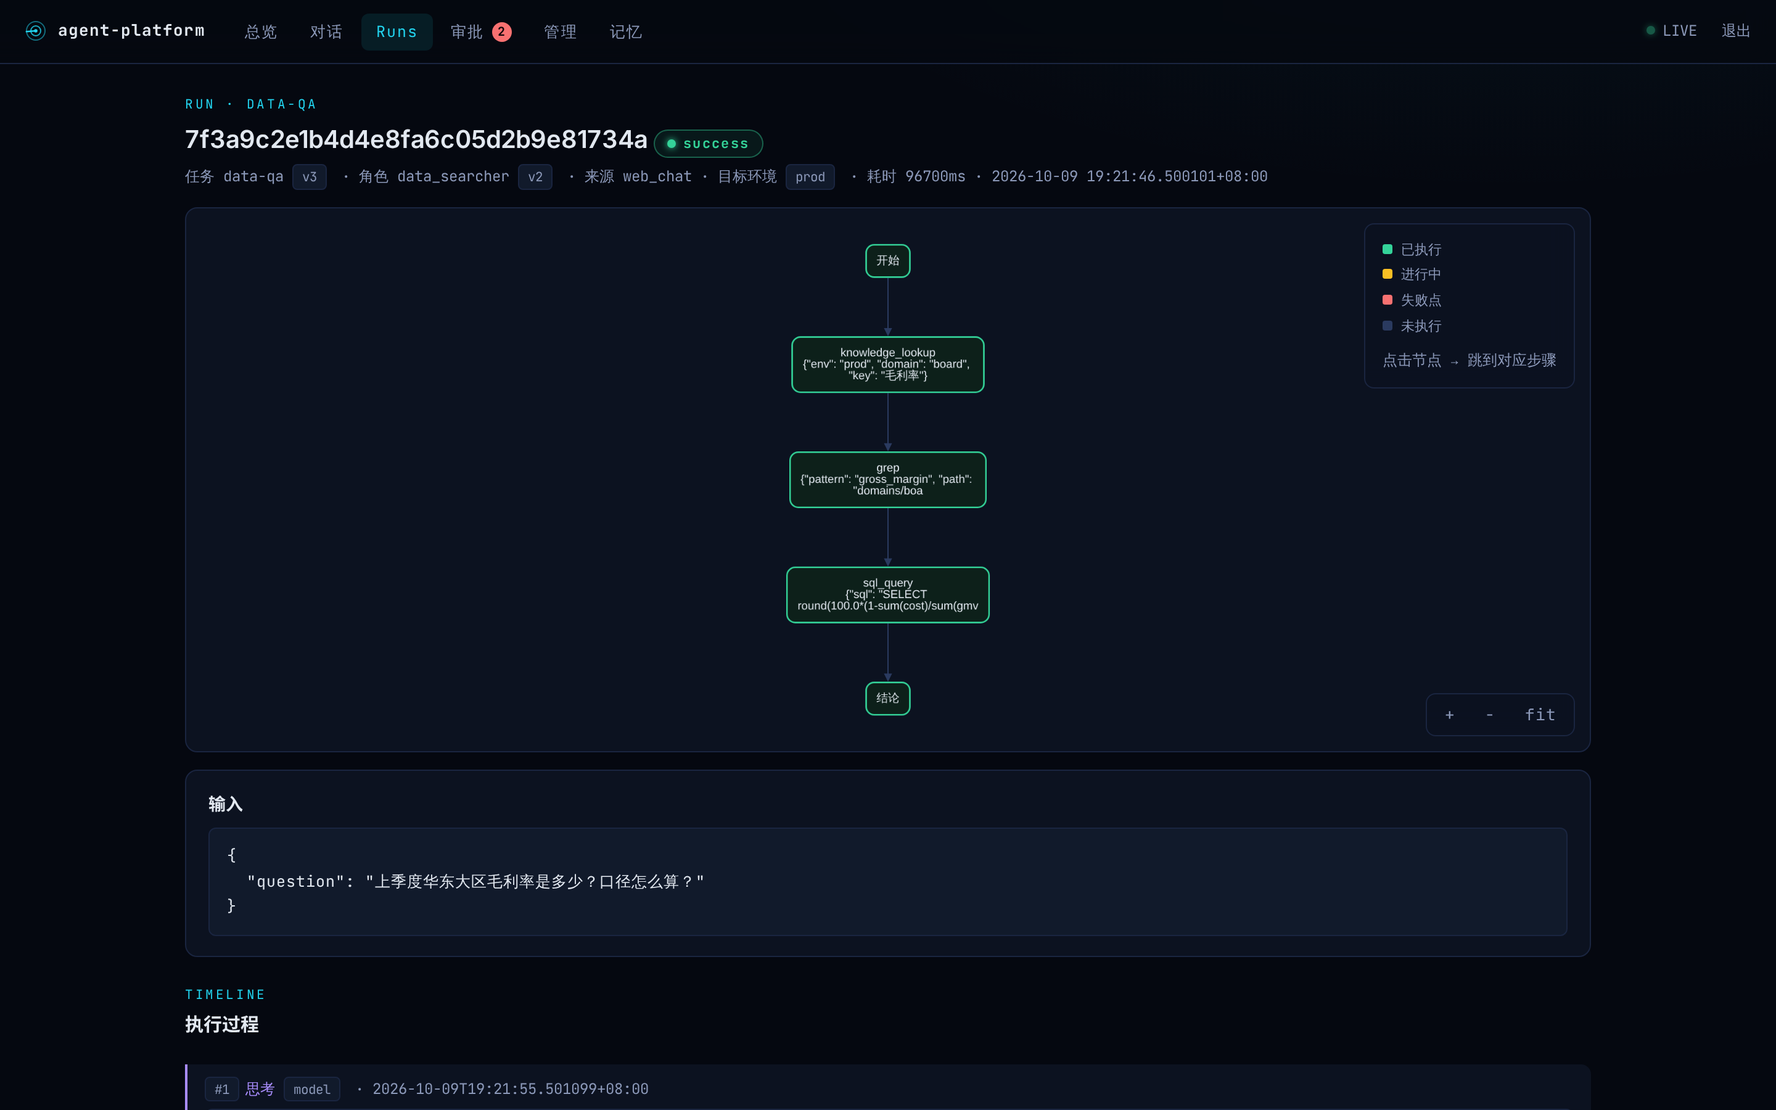
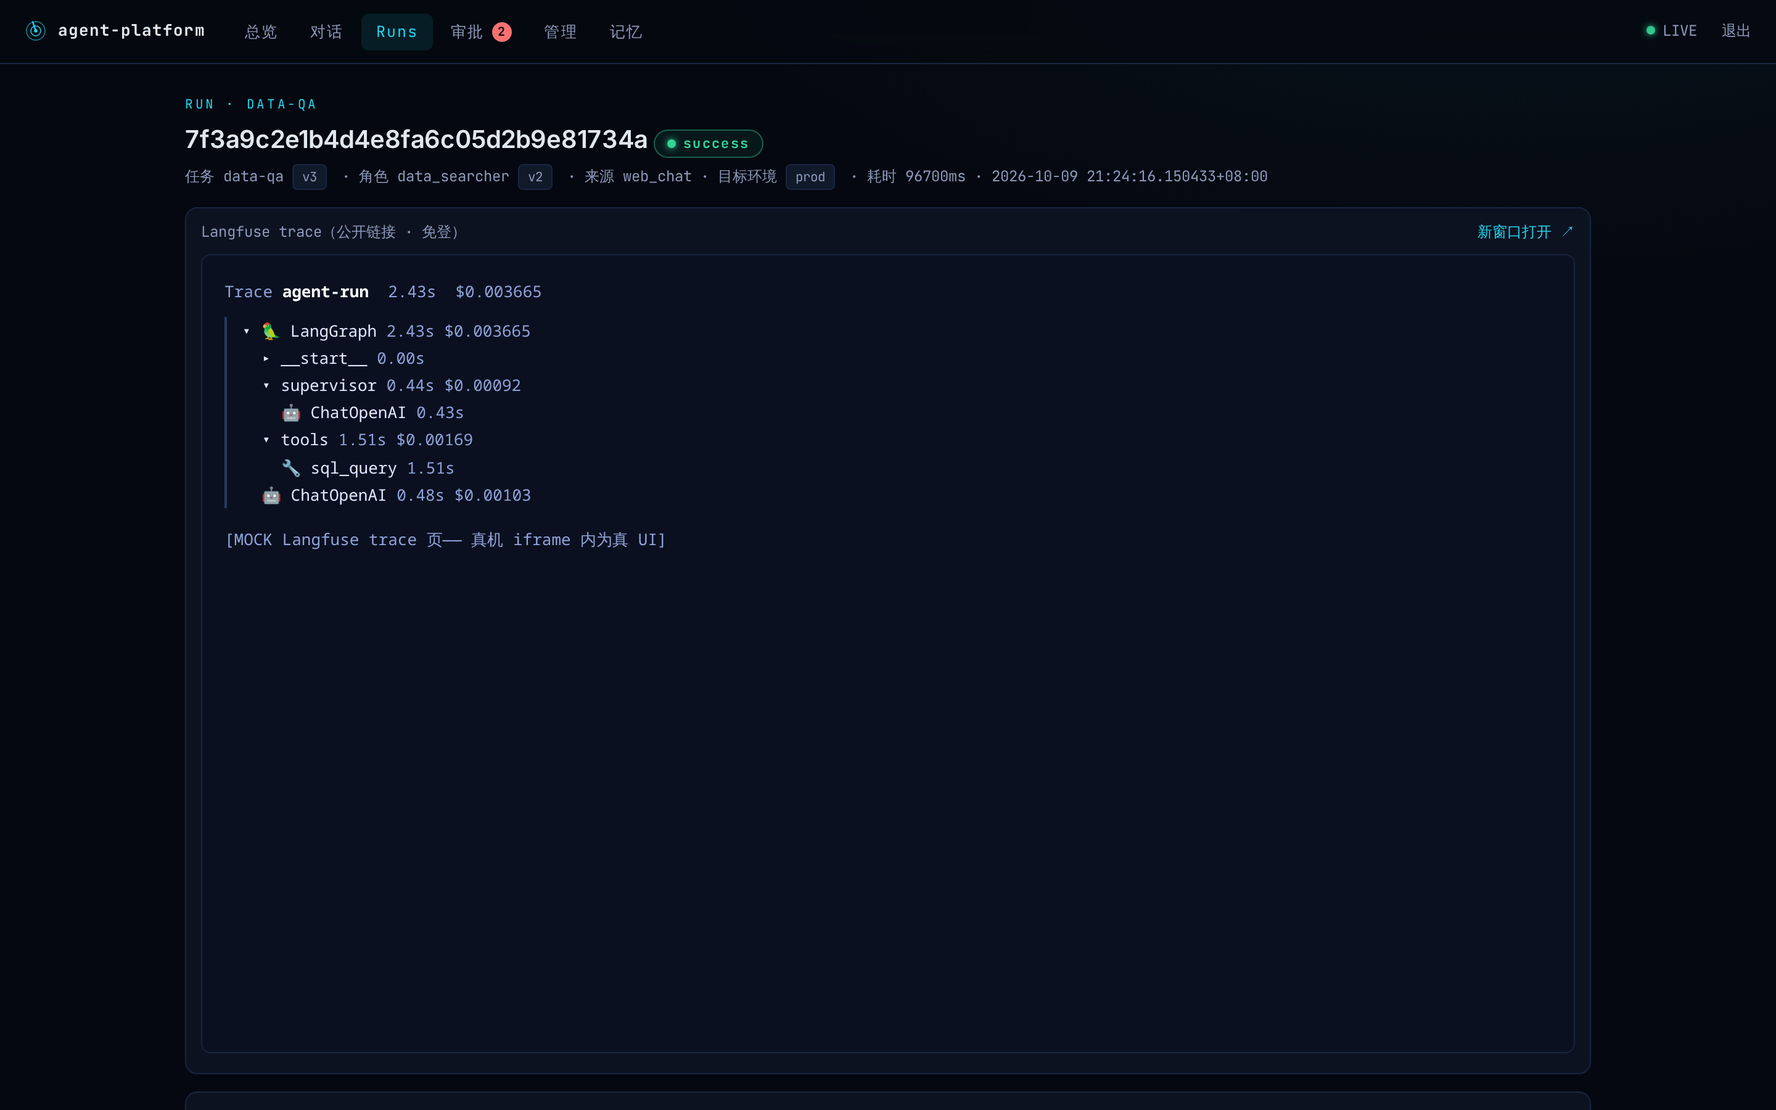
v4.10.0 run 详情页整页内嵌 Langfuse trace 页——深层观测用官方 UI，不再自研
打开详情页时：ingestion trace-create {id, public:true} 把 trace 设为公开
链接（幂等、进程内去重，与 UI 分享按钮同一通路）→ GET trace 页探测
X-Frame-Options/CSP frame-ancestors → 无限制头则 iframe 内嵌（免登），
自研轨迹图/时间线不再渲染；未剥头/未启用/embed=false 降级为外链+自研图。
自托管默认 SAMEORIGIN，需在 Langfuse 反向代理 proxy_hide_header 剥掉
（页面内嵌提示里直接给出配置，探测不缓存，剥好即自动生效）。
未决审批改页顶 ⏸ 横幅（不再依赖图节点）。langfuse.embed 配置可关。
+2 单测（publish 幂等/失败重试、frame_check 三态），116 tests OK。

diff --git a/src/agent_platform/viewer/static/graph.js b/src/agent_platform/viewer/static/graph.js
@@ -185,7 +185,8 @@ function renderRunHead(s) {
 }
 
 /* —— Run 详情页：轮询 state.json，局部刷新图与步骤 —— */
-async function watchRun(runId) {
+/* embedded=true：页面已内嵌 Langfuse trace，自研轨迹图/时间线不再渲染 */
+async function watchRun(runId, embedded) {
   const graphEl = document.getElementById("graph");
   while (true) {
     let s;
@@ -196,7 +197,7 @@ async function watchRun(runId) {
       continue;
     }
     renderRunHead(s);
-    if (s.graph && s.graph.nodes && s.graph.nodes.length) {
+    if (!embedded && s.graph && s.graph.nodes && s.graph.nodes.length) {
       document.getElementById("graph-card").style.display = "";
       // 状态来源三种：轨迹图直给三态 / 资产图 artifacts 表映射 / 骨架图事件推导
       const statuses = s.graph.trace
@@ -208,7 +209,7 @@ async function watchRun(runId) {
           : nodeStatusOf(s.events, s.run.status);
       renderInto(graphEl, s.graph, statuses);
     }
-    renderSteps(document.getElementById("steps"), s.events);
+    if (!embedded) renderSteps(document.getElementById("steps"), s.events);
     document.getElementById("output").textContent = JSON.stringify(s.run.output);
     if (s.run.status !== "queued" && s.run.status !== "running") break;
     await new Promise(r => setTimeout(r, 2000));

diff --git a/src/agent_platform/viewer/static/app.css b/src/agent_platform/viewer/static/app.css
@@ -258,6 +258,17 @@ button.ok:hover { background: rgba(52, 211, 153, 0.18); }
 .graph-legend .sw { display: inline-block; width: 8px; height: 8px; border-radius: 2px;
                     margin-right: 7px; vertical-align: 0; }
 .graph-tools { bottom: 12px; right: 12px; display: flex; gap: 4px; padding: 4px; }
+
+/* —— Langfuse trace 内嵌（详情页深层观测直接用官方 UI） —— */
+.trace-embed { padding: 10px 12px; }
+.trace-embed .trace-frame {
+  width: 100%; height: 72vh; min-height: 480px; margin-top: 8px;
+  border: 1px solid var(--border); border-radius: 8px; background: #0b1020;
+}
+.pending-banner {
+  border-color: #fbbf24; background: rgba(251, 191, 36, 0.08);
+  font-family: var(--mono); font-size: 13px;
+}
 .graph-tools button {
   margin: 0; padding: 4px 10px; font-size: 13px; border: none; background: transparent;
   color: var(--text-dim); border-radius: 5px; box-shadow: none;

diff --git a/src/agent_platform/viewer/pages/runs.py b/src/agent_platform/viewer/pages/runs.py
@@ -91,20 +91,58 @@ def make_router(env: str, engine=None, langfuse=None,
         run = await runs.get(run_id)
         if run is None:
             raise HTTPException(404, "run 不存在")
-        trace_link = ""
+        # Langfuse trace 区：embed 开启时把官方 trace 页整页内嵌（先自动设为
+        # 公开链接免登，再探测网关是否放行 iframe）；任一条件不满足降级外链。
+        # 内嵌成功后自研轨迹图/时间线不再渲染——深层观测不重复造。
+        trace_section, embedded = "", False
         if langfuse is not None and langfuse.enabled:
             tid = await runs.trace_id_of(run_id)
             if tid:
                 url = await langfuse.trace_url(tid)
-                inner = (f'<a href="{url}" target="_blank">'
-                         f'在 Langfuse 打开完整 trace ↗</a>'
-                         f'（<code>{tid}</code>）' if url else
-                         f'<a href="{langfuse.host}" target="_blank">Langfuse</a>'
-                         f' 中搜索 <code>{tid}</code>')
-                trace_link = f'<p class="meta">深度 trace：{inner}</p>'
+                if (url and langfuse.embed
+                        and await langfuse.publish_trace(tid)
+                        and await langfuse.frame_check(url)):
+                    embedded = True
+                    trace_section = f"""
+        <div class="card trace-embed">
+          <div class="meta">Langfuse trace（公开链接 · 免登）
+            <a href="{url}" target="_blank"
+               style="float:right">新窗口打开 ↗</a></div>
+          <iframe src="{url}" class="trace-frame"
+                  title="Langfuse trace"></iframe>
+        </div>"""
+                elif url and langfuse.embed:
+                    trace_section = f"""
+        <div class="card">
+          <b>Langfuse 暂不可内嵌</b>
+          <p class="meta">自托管默认带 <code>X-Frame-Options: SAMEORIGIN</code>
+          （或 Langfuse 当前不可达）。在它的反向代理里剥掉限制头：</p>
+          <pre>proxy_hide_header X-Frame-Options;
+proxy_hide_header Content-Security-Policy;</pre>
+          <p class="meta">每次打开本页都会重新探测，剥头后即自动内嵌。现在：
+          <a href="{url}" target="_blank">新窗口打开完整 trace ↗</a></p>
+        </div>"""
+                else:
+                    inner = (f'<a href="{url}" target="_blank">'
+                             f'在 Langfuse 打开完整 trace ↗</a>'
+                             f'（<code>{tid}</code>）' if url else
+                             f'<a href="{langfuse.host}" target="_blank">'
+                             f'Langfuse</a> 中搜索 <code>{tid}</code>')
+                    trace_section = f'<p class="meta">深度 trace：{inner}</p>'
+        pending = await approvals.find_pending(run_id)
+        pending_banner = (f'<div class="card pending-banner">⏸ 待审批：'
+                          f'<code>{esc(pending["command"])}</code> — 到 '
+                          f'<a href="/approvals">审批台</a> 放行或拒绝</div>'
+                          if pending else "")
+        steps_block = "" if embedded else """
+        <div class="page-head" style="margin-top:22px">
+          <div class="eyebrow">TIMELINE</div><h3>执行过程</h3>
+        </div>
+        <div id="steps"></div>"""
         body = f"""
         <div id="run-head"><div class="meta">加载中…</div></div>
-        {trace_link}
+        {pending_banner}
+        {trace_section}
         <div class="graph-shell" id="graph-card" style="display:none">
           <div class="cy" id="graph"></div>
           <div class="graph-overlay graph-legend">
@@ -120,10 +158,7 @@ def make_router(env: str, engine=None, langfuse=None,
           </div>
         </div>
         <div class="card"><b>输入</b><pre>{esc(json.dumps(run.get('input'), ensure_ascii=False, indent=2))}</pre></div>
-        <div class="page-head" style="margin-top:22px">
-          <div class="eyebrow">TIMELINE</div><h3>执行过程</h3>
-        </div>
-        <div id="steps"></div>
+        {steps_block}
         <div class="card"><b>最终输出</b><pre id="output"></pre></div>
         <div class="card">
           <b>这个结论有帮助吗？</b>
@@ -136,7 +171,7 @@ def make_router(env: str, engine=None, langfuse=None,
         <script src="/static/cytoscape.min.js"></script>
         <script src="/static/cytoscape-dagre.min.js"></script>
         <script src="/static/graph.js"></script>
-        <script>watchRun("{run_id}");</script>"""
+        <script>watchRun("{run_id}", {"true" if embedded else "false"});</script>"""
         return page(f"Run {run_id[:8]}", body, active="/runs")
 
     @router.post("/runs/{run_id}/feedback")

diff --git a/src/agent_platform/langfuse.py b/src/agent_platform/langfuse.py
@@ -23,6 +23,8 @@ from __future__ import annotations
 import asyncio
 import base64
 import logging
+import uuid
+from datetime import datetime, timezone
 from typing import Any
 
 from .config import LangfuseConfig
@@ -43,6 +45,7 @@ class LangfuseClient:
         # 进程内 last-known-good：SDK 缓存过期且远端失败时的中间降级层
         self._last_known: dict[str, dict] = {}
         self._pid: str | None = None  # trace 页 URL 用，首次解析后缓存
+        self._published: set[str] = set()  # 已设为公开链接的 trace id（幂等去重）
         if not cfg.enabled:
             return
         if client_factory is None:
@@ -63,6 +66,10 @@ class LangfuseClient:
     @property
     def host(self) -> str:
         return self._cfg.host
+
+    @property
+    def embed(self) -> bool:
+        return self._cfg.embed
 
     # ---- prompt 源头 ----
 
@@ -153,6 +160,49 @@ class LangfuseClient:
             self._pid = ""
         return self._pid
 
+    # ---- trace 内嵌（公开链接 + frame 探测） ----
+
+    async def publish_trace(self, trace_id: str) -> bool:
+        """把 trace 设为公开链接（免登可查看）——iframe 内嵌的前提。
+
+        走 ingestion API 的 trace-create 更新（与 Langfuse UI"分享"按钮同一
+        数据通路：同 id 合并，只动 public 字段）；幂等，进程内去重。失败返回
+        False——调用方降级为外链，不影响详情页其余部分。"""
+        if (self._client is None or not trace_id or not self._cfg.embed
+                or trace_id in self._published):
+            return trace_id in self._published
+        try:
+            auth = base64.b64encode(
+                f"{self._cfg.public_key}:{self._cfg.secret_key}"
+                .encode()).decode()
+            await asyncio.to_thread(
+                _http_post_json, f"{self._cfg.host}/api/public/ingestion",
+                {"batch": [{
+                    "id": uuid.uuid4().hex,          # 事件 id 每次唯一（去重键）
+                    "type": "trace-create",
+                    "timestamp": datetime.now(timezone.utc).isoformat(),
+                    "body": {"id": trace_id, "public": True},
+                }]},
+                {"Authorization": f"Basic {auth}"})
+            self._published.add(trace_id)
+            return True
+        except Exception:  # noqa: BLE001 —— 公开设置失败只降级，不放大
+            log.warning("Langfuse trace 公开设置失败，内嵌降级为外链")
+            return False
+
+    async def frame_check(self, url: str) -> bool:
+        """探测 Langfuse 是否允许被 iframe 嵌入（响应头无 X-Frame-Options /
+        CSP frame-ancestors 限制）。自托管默认带 SAMEORIGIN——网关剥头后
+        本探测自动转 True（结果不缓存，修好即生效）。异常一律 False。"""
+        try:
+            headers = await asyncio.to_thread(_http_headers, url)
+        except Exception:  # noqa: BLE001 —— 不可达/超时都按不可嵌入处理
+            return False
+        if "x-frame-options" in headers:
+            return False
+        return "frame-ancestors" not in headers.get(
+            "content-security-policy", "").lower()
+
     # ---- 反馈回写 ----
 
     async def score(self, trace_id: str, name: str, value: float,
@@ -192,6 +242,25 @@ def _http_get_json(url: str, headers: dict) -> dict:
     req = urllib.request.Request(url, headers=headers)
     with urllib.request.urlopen(req, timeout=5) as resp:
         return _json.loads(resp.read())
+
+
+def _http_post_json(url: str, payload: dict, headers: dict) -> int:
+    """极简 POST JSON（测试可替身）；ingestion 用，207/2xx 即成功。"""
+    import json as _json
+    import urllib.request
+    req = urllib.request.Request(
+        url, data=_json.dumps(payload).encode(), method="POST",
+        headers={**headers, "Content-Type": "application/json"})
+    with urllib.request.urlopen(req, timeout=5) as resp:
+        return resp.status
+
+
+def _http_headers(url: str) -> dict:
+    """GET 只取响应头（小写键，测试可替身）；body 不读——trace 页是 SSR 大页。"""
+    import urllib.request
+    req = urllib.request.Request(url)
+    with urllib.request.urlopen(req, timeout=5) as resp:
+        return {k.lower(): v for k, v in resp.headers.items()}
 
 
 # ==================== 观测（OTEL → Langfuse） ====================

diff --git a/tests/test_units.py b/tests/test_units.py
@@ -687,6 +687,64 @@ class TestLangfuseClient(unittest.IsolatedAsyncioTestCase):
         finally:
             lf_mod._http_get_json = orig
 
+    async def test_publish_trace_marks_public_and_caches(self):
+        import agent_platform.langfuse as lf_mod
+        lf = self._client()
+        posts = []
+
+        def fake_post(url, payload, headers):
+            posts.append((url, payload))
+            return 207
+
+        orig = lf_mod._http_post_json
+        lf_mod._http_post_json = fake_post
+        try:
+            self.assertTrue(await lf.publish_trace("tid-1"))
+            self.assertTrue(await lf.publish_trace("tid-1"))  # 幂等去重
+            self.assertEqual(len(posts), 1)
+            url, payload = posts[0]
+            self.assertEqual(url, "http://lf/api/public/ingestion")
+            ev = payload["batch"][0]
+            self.assertEqual(ev["type"], "trace-create")
+            self.assertEqual(ev["body"], {"id": "tid-1", "public": True})
+        finally:
+            lf_mod._http_post_json = orig
+        # 失败不记入已发布集合（下次重试），也不抛出
+        def boom(url, payload, headers):
+            raise RuntimeError("down")
+
+        lf_mod._http_post_json = boom
+        try:
+            self.assertFalse(await lf.publish_trace("tid-2"))
+            self.assertNotIn("tid-2", lf._published)
+        finally:
+            lf_mod._http_post_json = orig
+        # embed 关闭 / 未启用 → 不发布
+        self.assertFalse(await self._client(enabled=False).publish_trace("t"))
+
+    async def test_frame_check(self):
+        import agent_platform.langfuse as lf_mod
+        lf = self._client()
+        orig = lf_mod._http_headers
+        try:
+            lf_mod._http_headers = lambda url: {}
+            self.assertTrue(await lf.frame_check("http://lf/x"))
+            lf_mod._http_headers = lambda url: {
+                "x-frame-options": "SAMEORIGIN"}
+            self.assertFalse(await lf.frame_check("http://lf/x"))
+            lf_mod._http_headers = lambda url: {
+                "content-security-policy": "default-src 'self'; "
+                                           "frame-ancestors 'self'"}
+            self.assertFalse(await lf.frame_check("http://lf/x"))
+
+            def boom(url):
+                raise RuntimeError("down")
+
+            lf_mod._http_headers = boom
+            self.assertFalse(await lf.frame_check("http://lf/x"))  # 不可达按禁止
+        finally:
+            lf_mod._http_headers = orig
+
 
 class TestArtGraph(unittest.TestCase):
     """资产化任务图的纯逻辑面：声明校验 / 拓扑分层 / 闸门求值。"""

diff --git a/src/agent_platform/config.py b/src/agent_platform/config.py
@@ -62,7 +62,11 @@ class TemporalConfig(BaseModel):
 
 
 class LangfuseConfig(BaseModel):
-    """提示词源头 + 观测。enabled=false 时角色直读 PG。"""
+    """提示词源头 + 观测。enabled=false 时角色直读 PG。
+
+    embed=true（默认）：run 详情页把 Langfuse trace 页以 iframe 内嵌——
+    trace 会被自动设为公开链接（免登，内网前提），Langfuse 网关若带
+    X-Frame-Options/CSP frame-ancestors 需剥掉，否则页面自动降级外链。"""
 
     enabled: bool = False
     host: str = "http://127.0.0.1:3000"
@@ -70,6 +74,7 @@ class LangfuseConfig(BaseModel):
     secret_key: str = ""
     prompt_label: str = "production"
     prompt_cache_ttl_s: float = 10.0
+    embed: bool = True
 
 
 class ApprovalsConfig(BaseModel):

diff --git a/src/agent_platform/__init__.py b/src/agent_platform/__init__.py
@@ -17,4 +17,4 @@
 - svcrun         通用服务纳管启动器（同机业务服务按需起停，bwrap 隔离环境配置）
 """
 
-__version__ = "4.9.2"
+__version__ = "4.10.0"

diff --git a/docs/设计文档.md b/docs/设计文档.md
@@ -271,11 +271,13 @@ prod 里 `call = workflow.execute_activity`，测试里直接 await——
   成功率条形图，SQL 聚合在 `store/runs.py: overview()`）/ 引擎拓扑页
   `/graph`（Agent 静态结构，cytoscape + dagre，拖拽/缩放/点击节点高亮邻接；
   与具体 run 无关，从总览页「引擎拓扑 →」进入）/ runs 列表页（目标环境过滤）/
-  run 详情（执行轨迹图 + 步骤时间线，2s 轮询——普通 agent run 的图按本 run
-  事件流构建：开始 → 每次工具调用（工具名+参数预览）→ 结论，每个 run 形状
-  不同，不再渲染引擎骨架；有未决审批时位置节点标 ⏸ 待审批；每步耗时/成败
-  详情走 Langfuse 直达链接，viewer 不重复造。资产图任务渲染产物血缘图，按
-  materialized/reused/skipped/rejected 染色；详情头带目标环境徽章）/
+  run 详情（**Langfuse trace 页整页 iframe 内嵌**（v4.10.0 起，深层观测直接
+  用官方 UI：span 树/耗时/成本/prompt/token 全套，viewer 不重复造；trace
+  打开详情页时自动设为公开链接免登，内网前提；有未决审批时页顶挂 ⏸ 待审批
+  横幅）——不可内嵌时降级为自研执行轨迹图 + 步骤时间线（2s 轮询，普通
+  agent run 的图按本 run 事件流构建：开始 → 每次工具调用（工具名+参数预览）
+  → 结论，每个 run 形状不同；位置节点标 ⏸ 待审批）。资产图任务渲染产物血缘
+  图，按 materialized/reused/skipped/rejected 染色；详情头带目标环境徽章）/
   审批页（`/approvals` 收件箱列表是钉钉 deep-link 之外的兜底入口，
   顶栏「审批」挂待办数角标，on-load 拉一次不轮询；`/approvals/{run_id}`
   处理页）/ 对话页（环境选择器）/ 管理页（角色/任务/策略定义 + 版本 diff）/
@@ -300,9 +302,16 @@ prod 里 `call = workflow.execute_activity`，测试里直接 await——
   | ![登录](screenshots/01-登录.png) | | |
 - Langfuse：官方 SDK（prompt 源头：name=`role:<name>`，label 灰度，SDK 自带
   TTL 缓存与写入失效；反馈 score 批量回写，关停前 flush）+ OTEL trace
-  （`/api/public/otel/v1/traces`，官方摄入路径）；run 详情页的 trace 链接
-  直达 trace 页（`/project/{pid}/traces/{tid}`，project id 经 public API
-  解析一次并缓存，解析失败降级为手动搜索文案）
+  （`/api/public/otel/v1/traces`，官方摄入路径）；run 详情页把官方 trace
+  页（`/project/{pid}/traces/{tid}`，project id 经 public API 解析一次并
+  缓存）**iframe 内嵌**：打开详情页时先经 ingestion API `trace-create`
+  `{id, public:true}` 把 trace 设为公开链接（幂等、进程内去重，与 UI"分享"
+  按钮同一数据通路），再 GET trace 页探测 `X-Frame-Options`/CSP
+  `frame-ancestors`——无限制头才内嵌（自托管默认带 SAMEORIGIN，需在
+  Langfuse 反向代理剥头：`proxy_hide_header X-Frame-Options;
+  proxy_hide_header Content-Security-Policy;`，剥好后打开详情页自动转内嵌，
+  探测不缓存）；embed=false 或 Langfuse 未启用或任一前置失败时，降级为
+  外链/手动搜索文案 + 自研轨迹图时间线
 - 降级：SDK 失败走进程内 last-known-good → PG 写穿缓存；Langfuse 未启用时
   角色直读 PG definitions 表，trace 不发送，链路不断
 

diff --git a/README.md b/README.md
@@ -60,10 +60,12 @@ AGENT_ENV=dev uvicorn --factory agent_platform.main:build_app --host 127.0.0.1 -
 Run Viewer：总览 `/`（近 24h 聚合仪表盘：状态统计卡 + 最近 Runs + 待审批/
 最近失败 + 任务分布）、引擎拓扑 `/graph`（Agent 静态结构，cytoscape 渲染）、
 Runs 列表 `/runs`（可按目标环境过滤）、详情 `/runs/{run_id}`
-（执行轨迹图——按本 run 事件流构建：开始 → 工具调用 → 结论，每个 run 形状
-不同 + 步骤时间线）、审批待办 `/approvals`（顶栏「审批」带待办数角标；
-钉钉卡片 deep-link 直达 `/approvals/{run_id}` 处理页）、管理页 `/admin`、
-记忆页 `/memory`、对话页 `/chat`（配置了 `target_envs` 时带环境选择器）。
+（**Langfuse trace 页整页内嵌**——打开时自动把 trace 设为公开链接免登；
+自托管需在 Langfuse 反向代理剥 `X-Frame-Options`/CSP 头，未剥或 Langfuse
+未启用时降级为自研执行轨迹图 + 步骤时间线）、审批待办 `/approvals`
+（顶栏「审批」带待办数角标；钉钉卡片 deep-link 直达 `/approvals/{run_id}`
+处理页）、管理页 `/admin`、记忆页 `/memory`、对话页 `/chat`（配置了
+`target_envs` 时带环境选择器）。
 
 主机监控：配好 `grafana:`（url + Prometheus 数据源 uid + 只读 token）并在域包
 `domain.yaml` 登记 `hosts` 后，角色可用 `host_metrics` 工具查部署机器的
